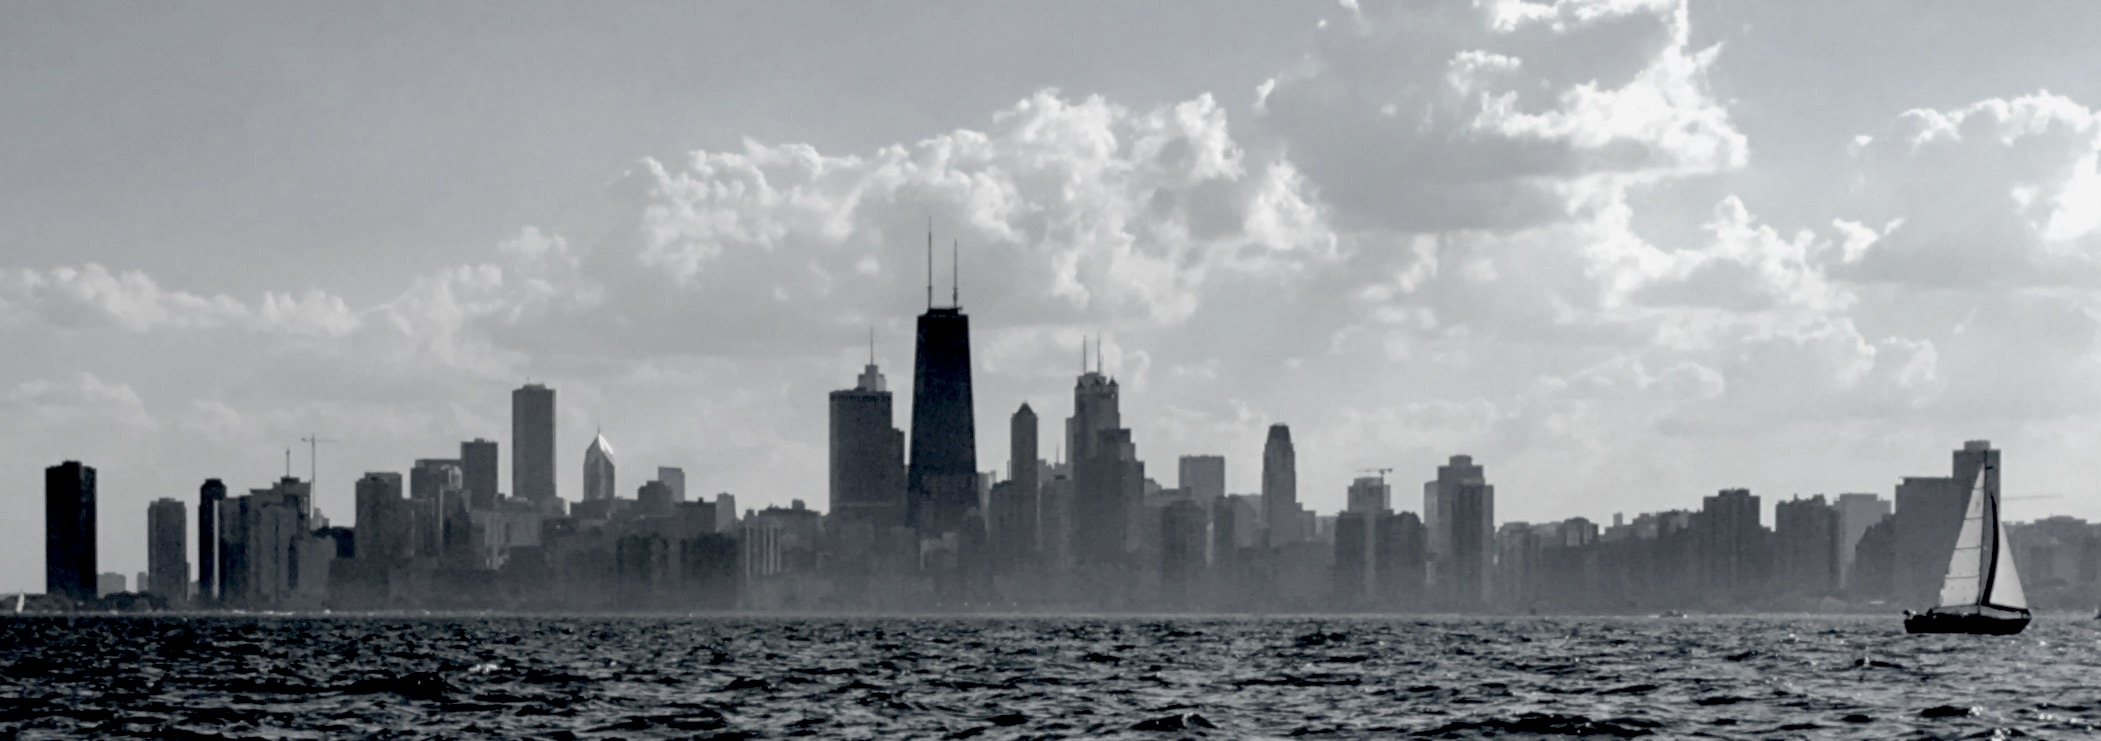
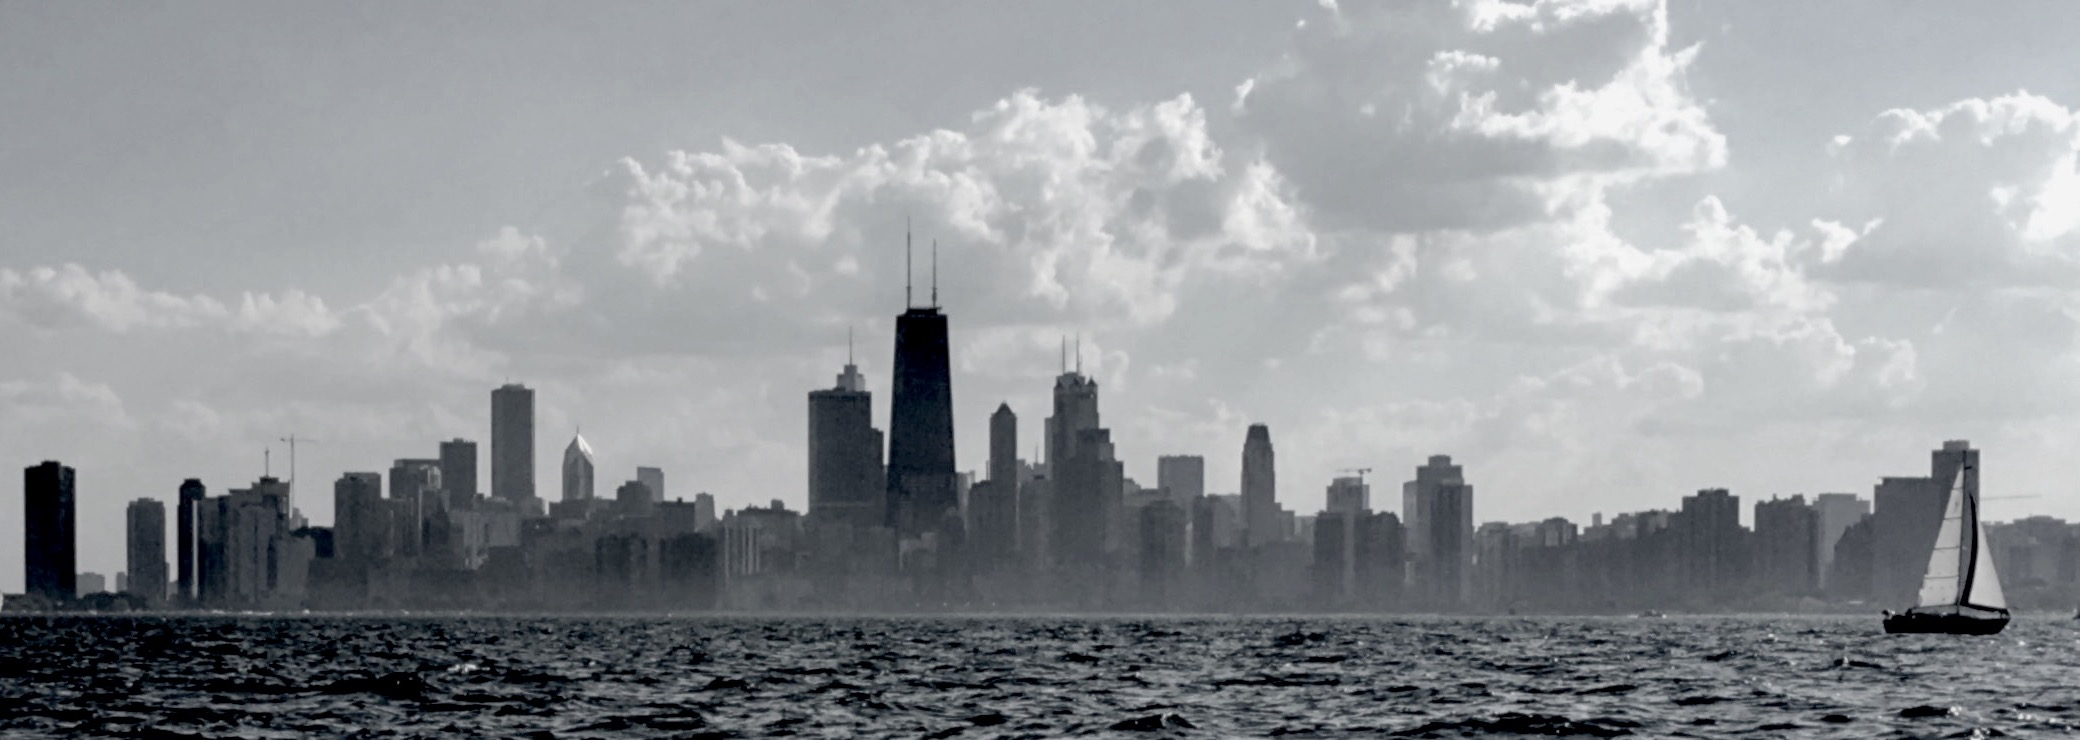
section/scroll overhaul

diff --git a/src/contact.js b/src/contact.js
@@ -6,17 +6,23 @@ import github from './github.png'
 class Contact extends Component {
   render() {
     return (
-      <div className="contact route">
-        <span className="title text">Feel free to reach out via <a id="email" href="mailto:chris.stephen.miller@gmail.com">email</a> or check me out here:</span>
+      <div id ="contact" className="contact route">
+        <span className="title text">Feel free to reach out via <a id="email" href="mailto:chris.stephen.miller@gmail.com">email</a> or learn more here:</span>
         <div id="contact-info">
-          <a href="https://linkedin.com/in/chrisstephenmiller" target="_blank" rel="noopener">
-            <img id="linkedin" src={linkedin} />
+          <a id="linkedin" href="https://linkedin.com/in/chrisstephenmiller" target="_blank" rel="noopener noreferrer">
+            <div className="contact-btn">
+              <img src={linkedin} alt="linkedin-logo"/>
+            </div>
           </a>
-          <a id="resume" href="resume.pdf" target="_blank" rel="noopener">
-            Resume
+          <a id="resume" href="resume.pdf" target="_blank" rel="noopener noreferrer">
+            <div className="contact-btn">
+              <span>Resume</span>
+            </div>
           </a>
-          <a href="https://github.com/chrisstephenmiller" target="_blank" rel="noopener">
-            <img id="github" src={github} />
+          <a id="github" href="https://github.com/chrisstephenmiller" target="_blank" rel="noopener noreferrer">
+            <div className="contact-btn">
+              <img src={github} alt="github-logo"/>
+            </div>
           </a>
         </div>
       </div>

diff --git a/src/routes.js b/src/routes.js
@@ -6,7 +6,7 @@ import Music from './music';
 import Contact from './contact';
 import { withRouter } from 'react-router'
 
-const filter = () => {
+const scrollOpacity = () => {
   const routes = document.getElementById(`routes`)
   const opacity = () => {
     const value = window.scrollY / window.innerHeight
@@ -20,19 +20,21 @@ class Routes extends Component {
 
   componentDidMount = () => {
     const links = [`about`, `code`, `music`, `contact`]
+    const heights = links.map(link => document.getElementById(link).clientHeight)
+    console.log(heights)
     const section = this.props.history.location.pathname.slice(1)
     const idx = links.indexOf(section)
     if (idx > -1) this.props.scrollTo(idx)
-    window.addEventListener(`scroll`, () => filter())
+    window.addEventListener(`scroll`, () => scrollOpacity())
   }
 
   render() {
     return (
       <div id="routes">
-        <About />
-        <Code />
-        <Music />
-        <Contact />
+        <About/>
+        <Code/>
+        <Music/>
+        <Contact/>
       </div>
     );
   }

diff --git a/src/about.js b/src/about.js
@@ -1,10 +1,15 @@
 import React, { Component } from 'react';
 
 class About extends Component {
+
+  componentDidMount = () => {
+    console.log(document.getElementById(`about`).clientHeight)
+  }
   render() {
     return (
-      <div className="about route">
-          <span className="title text">I am a web developer and audio engineer living in Chicago, Illinois</span>
+      <div id="about" className="about route">
+          <span className="title text">I am a web developer and audio engineer living in Chicago, Illinois.</span>
+          <span className="detail text">As a lifelong musician, I have always been fueled by collaboration and creative engagement. As an aspiring programmer and software engineer, </span>
       </div>
     );
   }

diff --git a/src/contact.css b/src/contact.css
@@ -14,17 +14,20 @@
   align-items: center;
 }
 
-#linkedin, #github, #resume {
+.contact-btn {
+  display: flex;
+  justify-content: center;
+  align-items: center;
   border: 1px solid white;
   height: 50px;
-  width: 175px;
-  margin: 0 5px;
-  padding: 5px 10px;
+  width: 180px;
+  margin: 5px;  
   transition: all .2s ease;
 }
 
-#linkedin {
-  transform: translateY(-1px)
+.contact-btn > img {
+  height: 42px;
+  width: 160px;
 }
 
 #resume {
@@ -32,11 +35,9 @@
   font-weight: 900;
   font-size: 42px;
   text-decoration: none;
-  transform: translateY(-3px);
-  padding: 5px 0;
 }
 
-#linkedin:hover, #github:hover, #resume:hover {
+.contact-btn:hover {
   box-shadow: 2px 2px 2px black;
   transition: all .1s ease;
 }

diff --git a/src/code.js b/src/code.js
@@ -13,12 +13,12 @@ const projects = [
 class Code extends Component {
   render() {
     return (
-      <div className="code route">
+      <div id="code" className="code route">
         <span className="title text">Applications I have built and/or contributed to:</span>
         <div className="projects">
           {projects.map(project => {
             return (
-              <div className="project">
+              <div key={project.name} className="project">
                 <a href={project.link} target="_blank" ref="noopener">
                   <img className={`${project.name} embed`} src={project.img} alt={project.name} />
                 </a>

diff --git a/src/routes.css b/src/routes.css
@@ -7,7 +7,7 @@
 .route {
   display: flex;
   flex-direction: column;
-  height: 100vh;
+  min-height: 100vh;
   width: 100%;
   justify-content: center;
   align-content: center;
@@ -44,8 +44,8 @@
 }
 
 .embed {
-  width: 350px;
-  height: 350px;
+  width: 300px;
+  height: 300px;
   transition: all .2s ease;
   border: 1px solid white;
 }

diff --git a/src/music.js b/src/music.js
@@ -10,7 +10,7 @@ const albums = [
 class Music extends Component {
   render() {
     return (
-      <div className="music route">
+      <div id="music" className="music route">
         <span className="title text">Albums I have played on and/or recorded:</span>
         <div className="albums">
           {albums.map(album => {

diff --git a/src/code.css b/src/code.css
@@ -3,11 +3,6 @@
   width: 350px;
 }
 
-.jam-session {
-  height: 350px;
-  width: 350px;
-}
-
 .projects {
   margin: 20px 140px;
   display: inline-flex;

diff --git a/src/app.css b/src/app.css
@@ -4,7 +4,7 @@
 
 #chicago {
   position: fixed;
-  right: 0;
+  left: 0;
   display: block;
   height: 100vh;
   min-height: 540px;
